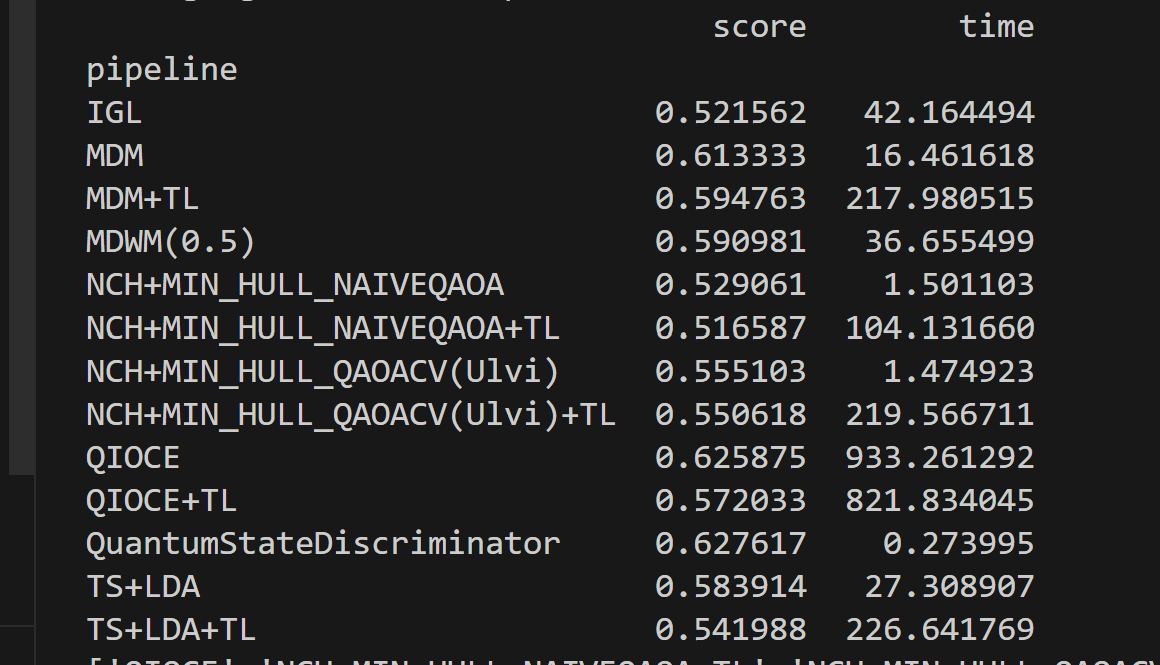
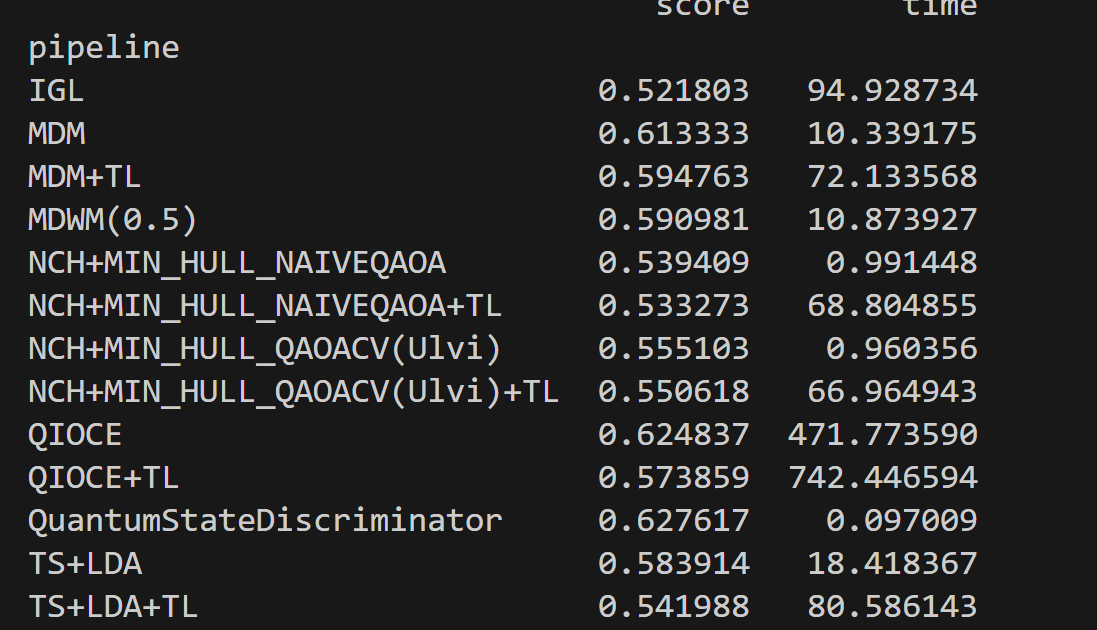
add time

diff --git a/paper/paper.tex b/paper/paper.tex
@@ -61,9 +61,9 @@ classifier; and (iii)~Intrinsic Green's Learning (IGL), a PDE-inspired
 kernel framework applied to raw EEG time series.
 Experiments show that \textsc{QuantumStateDiscriminator} and QIOCE achieve
 mean ROC AUC scores comparable to the best classical baseline (MDM: 0.613),
-reaching 0.628 and 0.626, respectively, while the
+reaching 0.628 and 0.625, respectively, while the
 \textsc{QuantumStateDiscriminator} is the fastest classifier tested at under
-0.3~s mean training time.
+0.1~s mean training time.
 NCH-based quantum methods trail classical baselines but benefit from
 Riemannian transfer learning in synthetic domain-shift conditions.
 IGL underperforms on these datasets.
@@ -598,19 +598,19 @@ averaged across subjects and datasets) for all 14 pipelines, now including IGL.
     \toprule
     Pipeline & AUC (mean) & Time (s, mean) \\
     \midrule
-    \textbf{QuantumStateDiscriminator}      & \textbf{0.628} & \textbf{0.27} \\
-    \textbf{QIOCE}                          & \textbf{0.626} & 933.3 \\
-    MDM                                     & 0.613          & 16.5 \\
-    MDM+TL                                  & 0.595          & 218.0 \\
-    MDWM(0.5)                               & 0.591          & 36.7 \\
-    TS+LDA                                  & 0.584          & 27.3 \\
-    QIOCE+TL                                & 0.572          & 821.8 \\
-    NCH+QAOACV(Ulvi)                        & 0.555          & 1.5 \\
-    NCH+QAOACV(Ulvi)+TL                     & 0.551          & 219.6 \\
-    TS+LDA+TL                               & 0.542          & 226.6 \\
-    NCH+NaiveQAOA                           & 0.529          & 1.5 \\
-    NCH+NaiveQAOA+TL                        & 0.517          & 104.1 \\
-    IGL                                     & 0.522          & 42.2 \\
+    \textbf{QuantumStateDiscriminator}      & \textbf{0.628} & \textbf{0.10} \\
+    \textbf{QIOCE}                          & \textbf{0.625} & 471.8 \\
+    MDM                                     & 0.613          & 10.3 \\
+    MDM+TL                                  & 0.595          & 72.1 \\
+    MDWM(0.5)                               & 0.591          & 10.9 \\
+    TS+LDA                                  & 0.584          & 18.4 \\
+    QIOCE+TL                                & 0.574          & 742.4 \\
+    NCH+QAOACV(Ulvi)                        & 0.555          & 1.0 \\
+    NCH+QAOACV(Ulvi)+TL                     & 0.551          & 67.0 \\
+    TS+LDA+TL                               & 0.542          & 80.6 \\
+    NCH+NaiveQAOA                           & 0.539          & 1.0 \\
+    NCH+NaiveQAOA+TL                        & 0.533          & 68.8 \\
+    IGL                                     & 0.522          & 94.9 \\
     \bottomrule
   \end{tabular}
 \end{table}
@@ -658,9 +658,11 @@ Key statistically significant differences ($p < 0.05$):
   \item \textbf{MDM $>$ NCH+QAOACV(Ulvi)+TL} ($p=0.04$, SMD$=1.06$,
     Fig.~\ref{fig:meta_mdm_ulvitl}): even the Ulvi circular-entanglement
     variant with RPA alignment does not match the classical MDM baseline.
-  \item \textbf{MDM $>$ TS+LDA+TL} ($p=0.02$, SMD$=1.45$): MDM without
+  \item \textbf{MDM $>$ TS+LDA+TL} ($p=0.023$, SMD$=1.45$,
+    Fig.~\ref{fig:meta_tsldatl_mdm}): MDM without
     transfer learning outperforms TS+LDA with full RPA alignment.
-  \item \textbf{MDM+TL $>$ TS+LDA+TL} ($p=0.04$, SMD$=1.77$): after RPA
+  \item \textbf{MDM+TL $>$ TS+LDA+TL} ($p=0.043$, SMD$=1.77$,
+    Fig.~\ref{fig:meta_tsldatl_mdmtl}): after RPA
     alignment, Riemannian nearest-mean significantly outperforms tangent-space
     linear discriminant.
 \end{itemize}
@@ -754,6 +756,24 @@ or between IGL and any other pipeline.
   \label{fig:meta_qsd_qiocetl}
 \end{figure}
 
+\begin{figure}[h]
+  \centering
+  \includegraphics[width=\columnwidth]{tsldatl_vs_mdm.png}
+  \caption{Meta-analysis: MDM vs.\ TS+LDA+TL ($p=0.023$).
+    MDM without transfer learning consistently outperforms
+    TS+LDA with full RPA alignment across all datasets.}
+  \label{fig:meta_tsldatl_mdm}
+\end{figure}
+
+\begin{figure}[h]
+  \centering
+  \includegraphics[width=\columnwidth]{tsldatl_vs_mdmtl.png}
+  \caption{Meta-analysis: MDM+TL vs.\ TS+LDA+TL ($p=0.043$).
+    After RPA alignment, Riemannian nearest-mean significantly outperforms
+    the tangent-space linear discriminant.}
+  \label{fig:meta_tsldatl_mdmtl}
+\end{figure}
+
 \subsection{Effect of Transfer Learning}
 
 Transfer learning has a clearly detrimental effect on quantum pipelines.
@@ -761,12 +781,14 @@ QIOCE suffers the most: the QIOCE $>$ QIOCE+TL difference is statistically
 significant ($p=0.043$, Fig.~\ref{fig:meta_qioce_qiocetl}), confirming
 that RPA alignment actively degrades this classifier across all datasets,
 not merely by chance.  NCH+NaiveQAOA similarly degrades with TL
-($0.529 \to 0.517$), and TS+LDA drops from $0.584$ to $0.542$.
+($0.539 \to 0.533$), and TS+LDA drops from $0.584$ to $0.542$.
 By contrast, the two Riemannian classical baselines respond differently:
 MDM+TL is not significantly different from MDM, but MDM+TL $>$ TS+LDA+TL
-($p=0.04$, SMD$=1.77$) confirms that after alignment MDM is the more
-robust classifier.  The Ulvi NCH variant with TL also remains below MDM
-($p=0.04$), suggesting that neither the quantum circuit improvements nor
+($p=0.043$, SMD$=1.77$, Fig.~\ref{fig:meta_tsldatl_mdmtl}) and
+MDM $>$ TS+LDA+TL ($p=0.023$, SMD$=1.45$, Fig.~\ref{fig:meta_tsldatl_mdm})
+confirm that after alignment MDM is the more robust classifier.
+The Ulvi NCH variant with TL also remains below MDM
+($p=0.043$), suggesting that neither the quantum circuit improvements nor
 alignment recover the gap to the classical Riemannian baseline.
 
 
@@ -1031,7 +1053,7 @@ within-class structure into the POVM construction are natural directions.
 \subsection{QAOA-CV Ulvi Optimizer and NCH}
 
 The Ulvi circular-entanglement NCH variant consistently outperforms NaiveQAOA
-by approximately 0.026 mean AUC points, with no significant increase in
+by approximately 0.016 mean AUC points, with no significant increase in
 training time.  However, both variants remain significantly below classical
 baselines (MDM $>$ NaiveQAOA, $p=0.02$; MDM $>$ Ulvi+TL, $p=0.04$).
 
